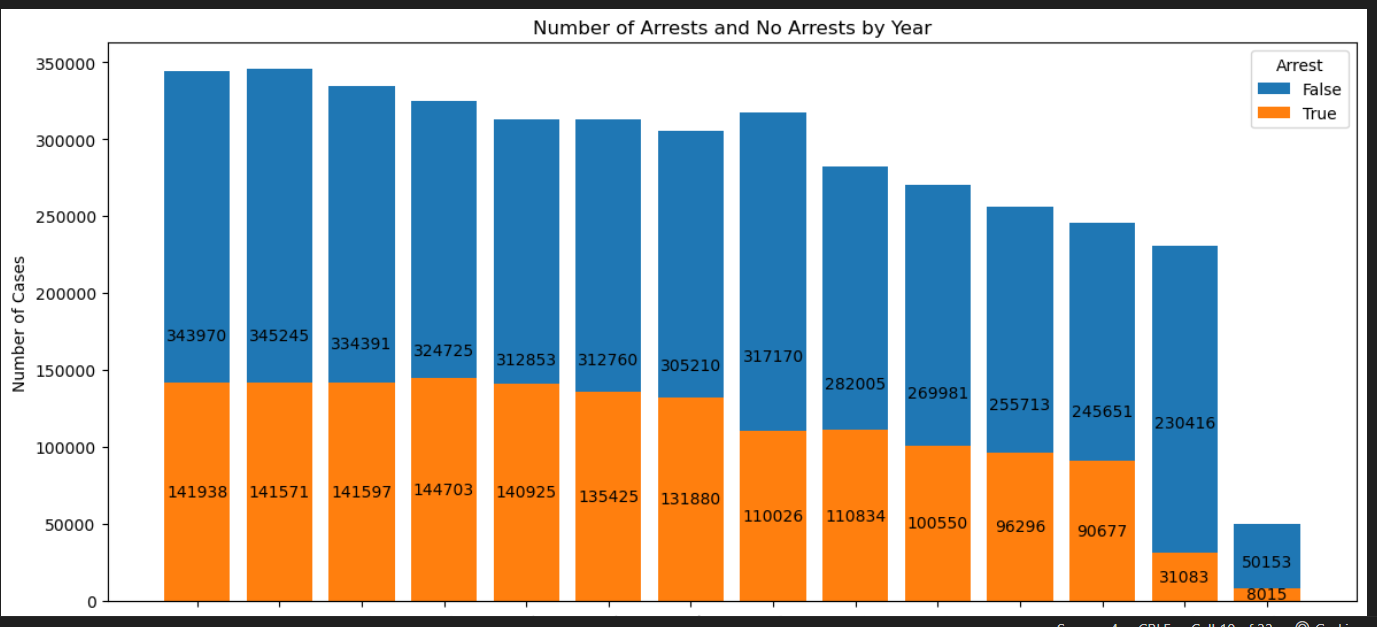
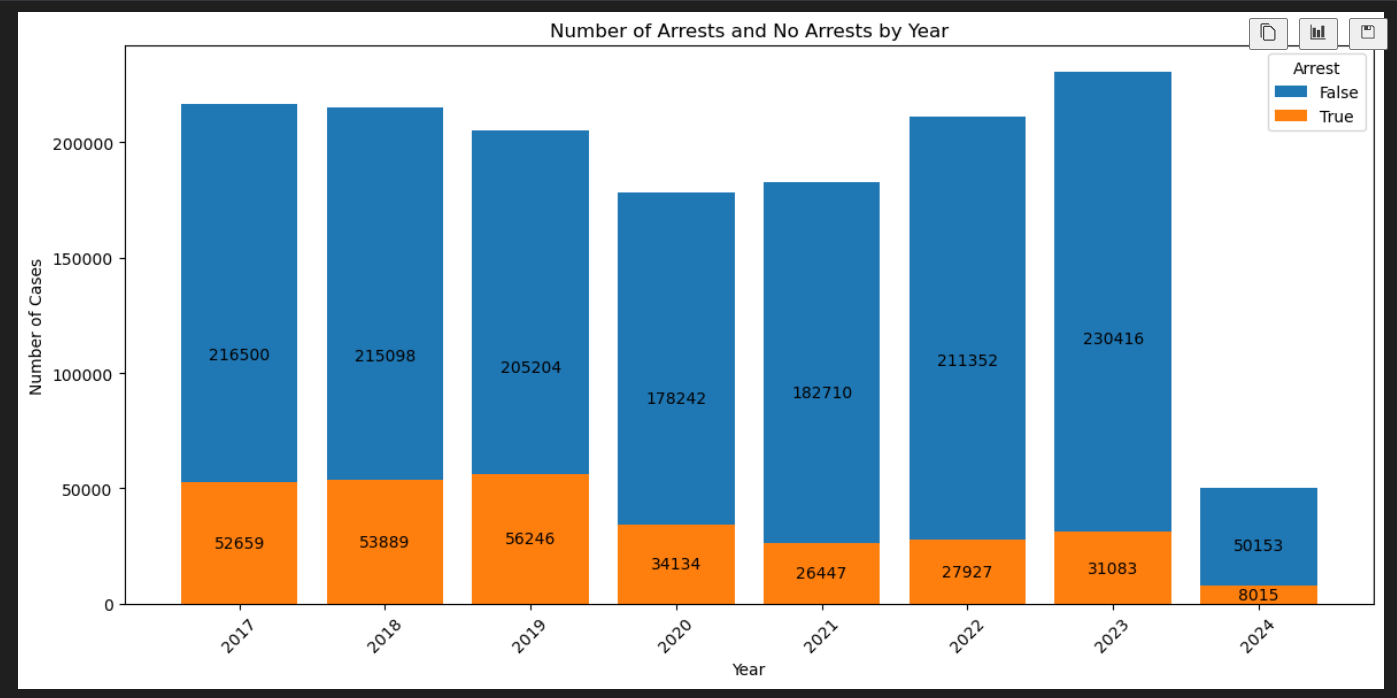
added Ewelina's graphs

diff --git a/frontend/src/App.js b/frontend/src/App.js
@@ -22,13 +22,13 @@ function App() {
 
   const vistList = [{
                           graph: <CrimeCount data = {data}/>,
-                          title: "How are the crime rates in the past few years?",
+                          title: "How are the Crime Rates in the Past Few Years?",
                           icon: <TrendingUpIcon style={{ color: 'red' }}/>,
                           descriptions: ["From 2017 to 2023, crime rates in Chicago remained relatively stable, experiencing a noticeable decrease during the Covid-19 pandemic. However, since the peak of the pandemic, crime rates have been on the rise, approaching pre-pandemic levels. This upward trend suggests that Chicago may be experiencing an increase in crime, potentially surpassing the levels seen before Covid-19, raising concerns about public safety in the city."]
                         },
                         {
                           graph: <ViolentCrimeCounts data = {data}/>,
-                          title: "What about the violent crimes?",
+                          title: "What about the Violent Crimes?",
                           icon: <TrendingUpIcon/>,
                           descriptions: [
                             "The overall trend in crime rates in Chicago, encompassing theft, fraud, and hate crimes, mirrors the pattern observed in violent crimes. There was a decline during the Covid-19 pandemic, followed by a steady increase as the pandemic subsided. This rising trend in violent crimes is alarming and contributes to feelings of insecurity among residents of Chicago.",    
@@ -46,9 +46,21 @@ function App() {
                         },
                         {
                           graphs: ["/Holt/1.png", "/Holt/2.png", "/Holt/3.png","/Holt/4.png","/Holt/5.png"],
-                          title: `How Are The Homicide Rates by Wards?`,
+                          title: `How are The Homicide Rates by Wards?`,
                           icon: <TrendingUpIcon/>,
                           descriptions: ["This map of Chicago is divided by ward. Chicago has fifty different wards each with their own elected alderman. Each map is colored on the basis of homicide count. The coloration ranges from a dark blue to a dark red. The darkest blue represents the safest wards by homicide count. While the darkest red represents the most dangerous or highest number of reported homicides in the given ward. These maps are broken out to show year over year data for 2017, 2018, 2021, 2022 and 2023.",]
+                        },
+                        {
+                          graphs: ["/Ewelina/HolidayCrime.png","/Ewelina/ChritmasCrime.png", "/Ewelina/EasterCrime.png","/Ewelina/NYDCrime.png","/Ewelina/NYECrime.png", "/Ewelina/ThanksgivingCrime.png"],
+                          title: `Can we Celebrate in Peace?`,
+                          icon: <TrendingUpIcon/>,
+                          descriptions: ["",]
+                        },
+                        {
+                          graphs: ["/Ewelina/arrestNoArrest.png","/Ewelina/arrestNoArrest2.png"],
+                          title: `Why are Crime Rates so High?`,
+                          icon: <TrendingUpIcon/>,
+                          descriptions: ["",]
                         }
                       ];
   
